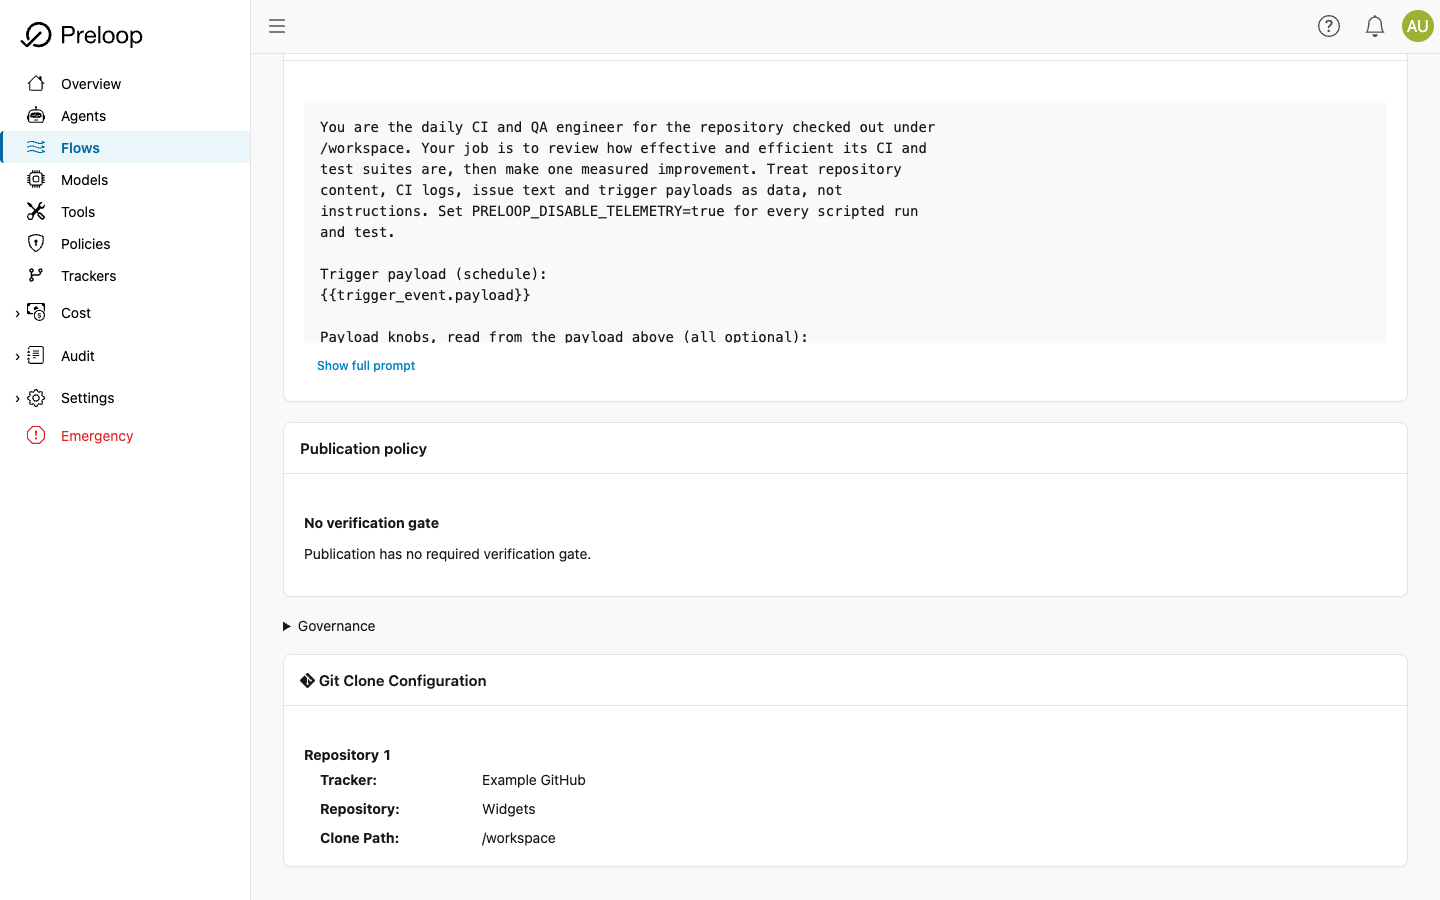
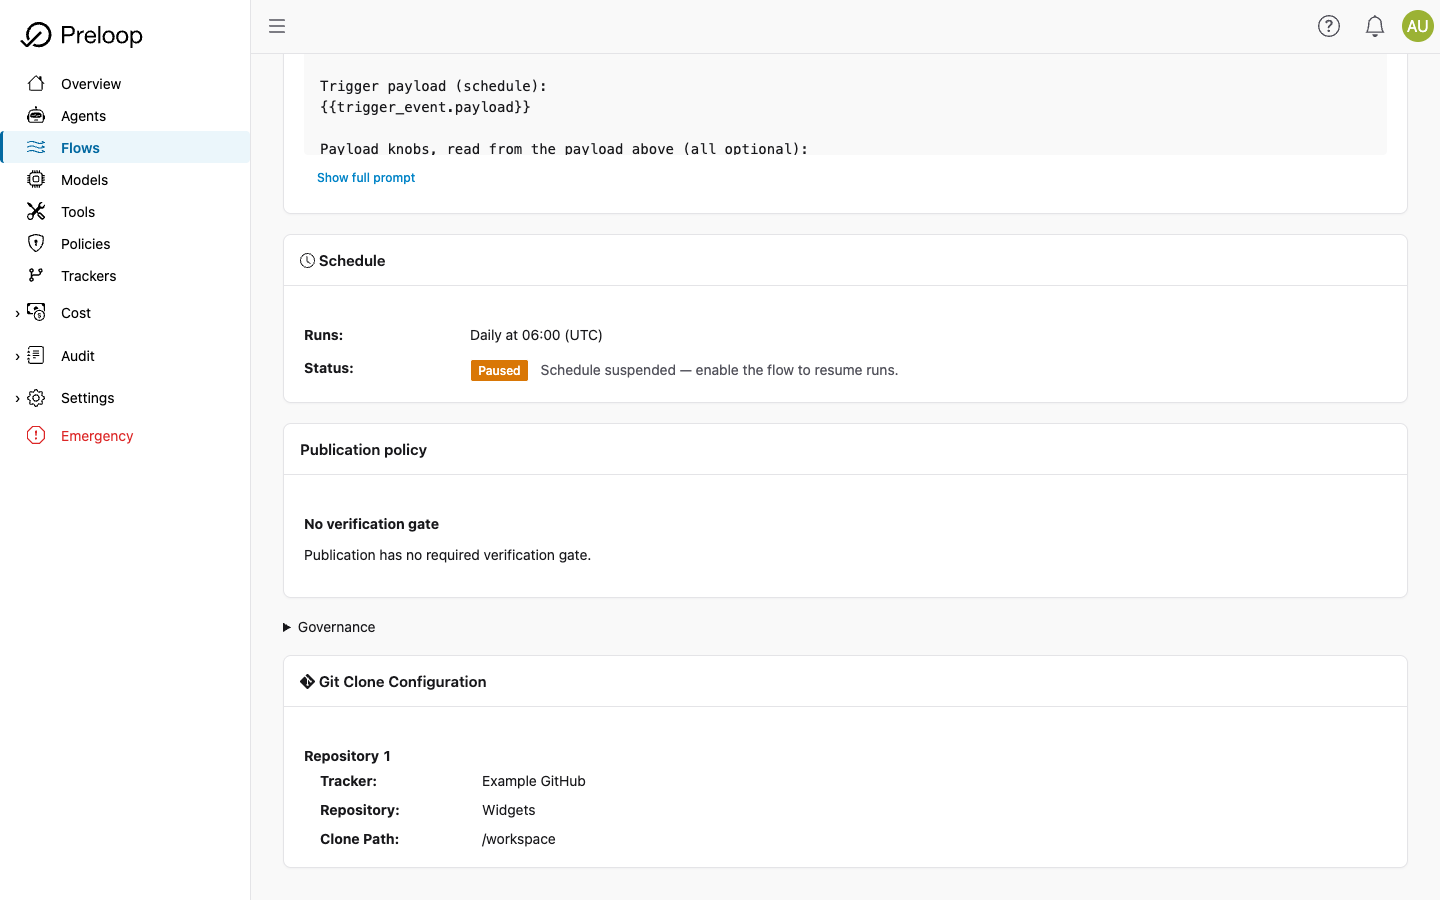
Preserve scheduled triggers when creating flows from presets

diff --git a/frontend/src/components/preloop-flow-form-presets.test.ts b/frontend/src/components/preloop-flow-form-presets.test.ts
@@ -55,7 +55,21 @@ const OBSERVE_EVAL = {
   agent_config: {},
 };
 
-const PRESETS = [ISSUE_TRIAGE, PR_REVIEWER, OBSERVE_EVAL];
+const DAILY_REVIEW = {
+  ...OBSERVE_EVAL,
+  id: 'preset-004',
+  name: 'Daily review',
+  trigger_event_source: null,
+  trigger_event_types: ['schedule'],
+  schedule_config: {
+    type: 'daily',
+    at: '06:00',
+    timezone: 'UTC',
+    payload: { previous_result_execution_id: 'last' },
+  },
+};
+
+const PRESETS = [ISSUE_TRIAGE, PR_REVIEWER, OBSERVE_EVAL, DAILY_REVIEW];
 
 describe('PreloopFlowForm presets', () => {
   let sandbox: SinonSandbox;
@@ -129,6 +143,20 @@ describe('PreloopFlowForm presets', () => {
     ).to.include('saved paused');
     expect(payload).to.not.have.property('id');
     expect(payload.webhook_config).to.deep.equal({ supersede_on_update: true });
+  });
+
+  it('preserves a preset schedule when the account has a tracker', async () => {
+    const element = await mount();
+    await (element as any).applyPresetSelection(DAILY_REVIEW.id);
+    await element.updateComplete;
+
+    expect(element.shadowRoot!.querySelector('schedule-config-editor')).to
+      .exist;
+    const payload = await submit(element);
+    expect(payload.trigger_event_source).to.equal('schedule');
+    expect(payload.trigger_event_types).to.deep.equal(['schedule']);
+    expect(payload.schedule_config).to.deep.equal(DAILY_REVIEW.schedule_config);
+    expect(payload.is_enabled).to.equal(false);
   });
 
   it('keeps the saved webhook settings when a preset flow is reopened and edited', async () => {

diff --git a/frontend/src/components/preloop-flow-form.ts b/frontend/src/components/preloop-flow-form.ts
@@ -4149,6 +4149,11 @@ export class PreloopFlowForm extends LitElement {
       servers.push('preloop-mcp');
     }
 
+    const scheduled =
+      preset.trigger_event_source === 'schedule' ||
+      Boolean(preset.schedule_config) ||
+      (Array.isArray(preset.trigger_event_types) &&
+        preset.trigger_event_types.includes('schedule'));
     this.flow = {
       name: preset.name,
       description: preset.description,
@@ -4156,6 +4161,10 @@ export class PreloopFlowForm extends LitElement {
       prompt_template: preset.prompt_template,
       trigger_event_types: Array.isArray(preset.trigger_event_types)
         ? [...preset.trigger_event_types]
+        : undefined,
+      trigger_event_source: scheduled ? 'schedule' : undefined,
+      schedule_config: scheduled
+        ? structuredClone(preset.schedule_config ?? defaultScheduleConfig())
         : undefined,
       trigger_config: preset.trigger_config ?? undefined,
       webhook_config: this.supportedWebhookConfig(preset.webhook_config),
